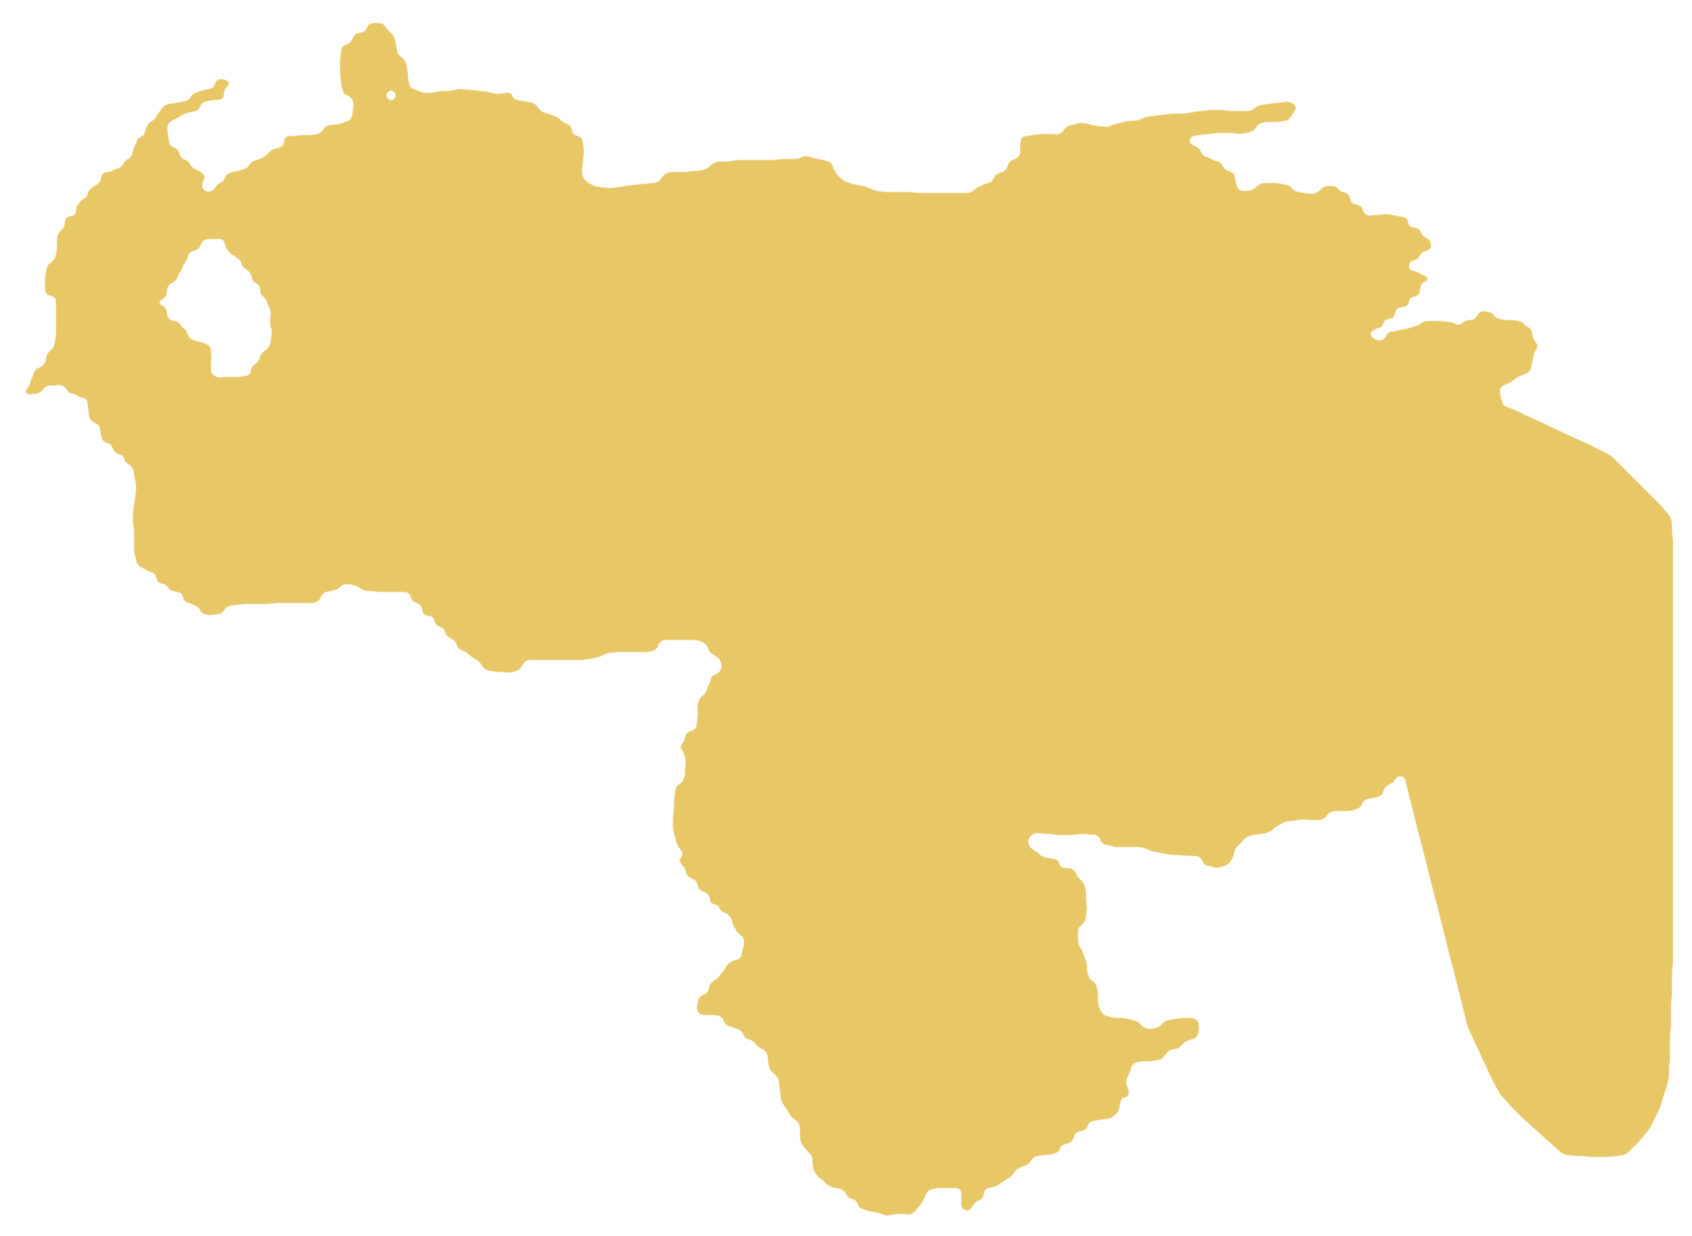
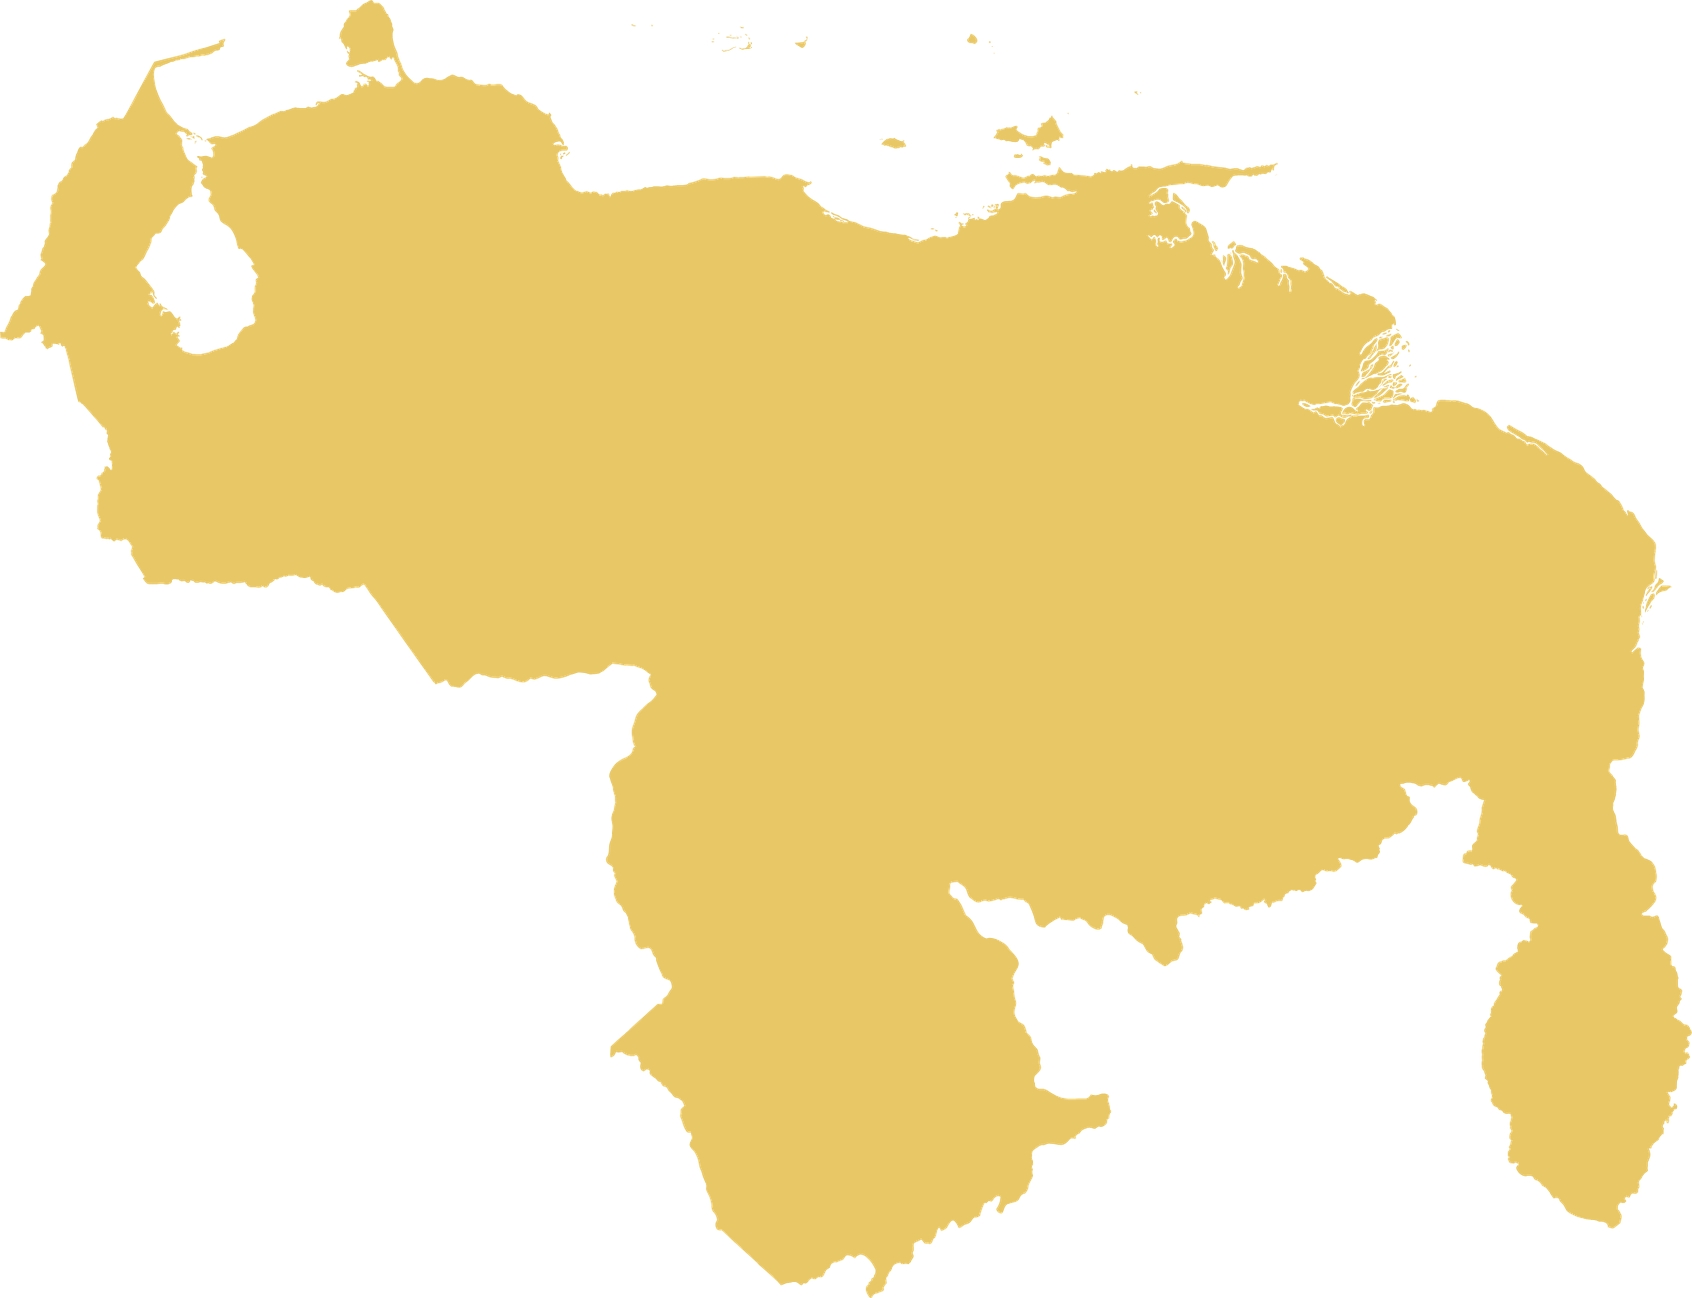
Inicio: mapa de Venezuela real, con la Guayana Esequiba completa

diff --git a/index.html b/index.html
@@ -461,7 +461,7 @@
             <svg class="map-bean" viewBox="0 0 24 24"><ellipse cx="12" cy="12" rx="6.2" ry="9" transform="rotate(30 12 12)" fill="#E8C766"/><path d="M8.6 5.8c3.6 2.6 3.6 9.8 6.8 12.4" stroke="#7C1E1E" stroke-width="1.5" fill="none" stroke-linecap="round"/></svg>
             <span class="map-line"></span>
           </div>
-          <img class="map-ve" src="assets/venezuela-map-gold.png?v=1" alt="Mapa de Venezuela">
+          <img class="map-ve" src="assets/venezuela-map-gold.png?v=2" alt="Mapa de Venezuela">
         </div>
         <span class="hero-art-signature">Il mondo Vero</span>
       </div>
